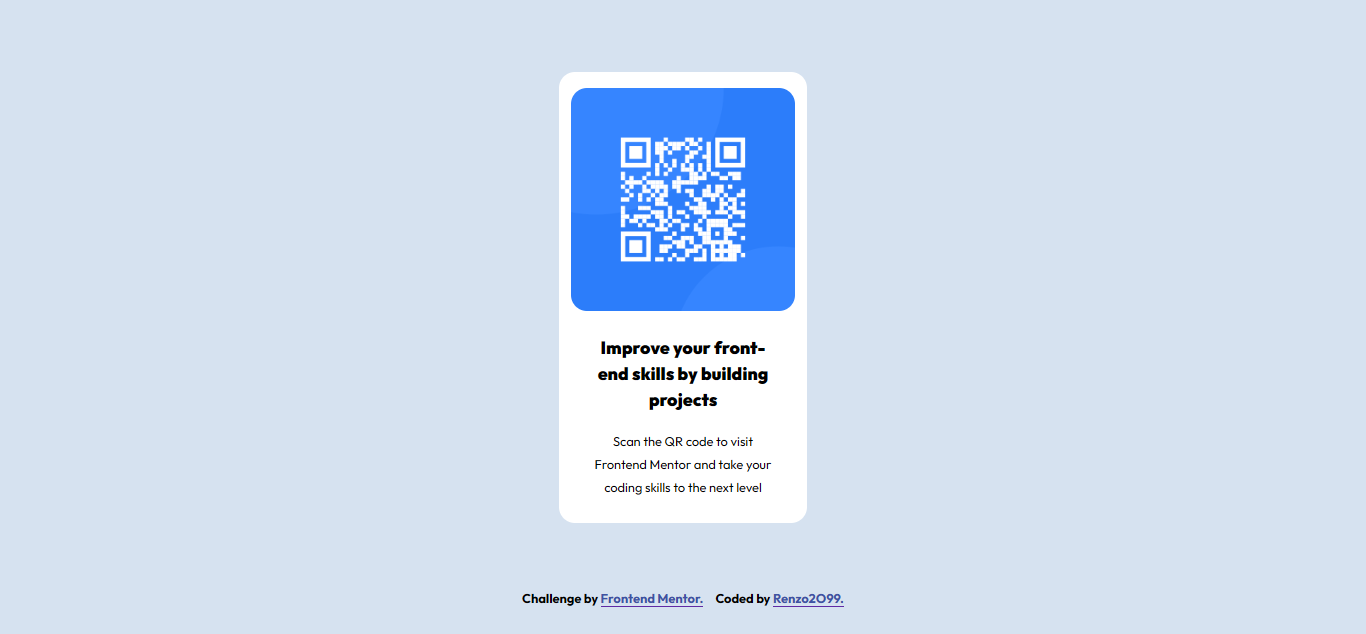
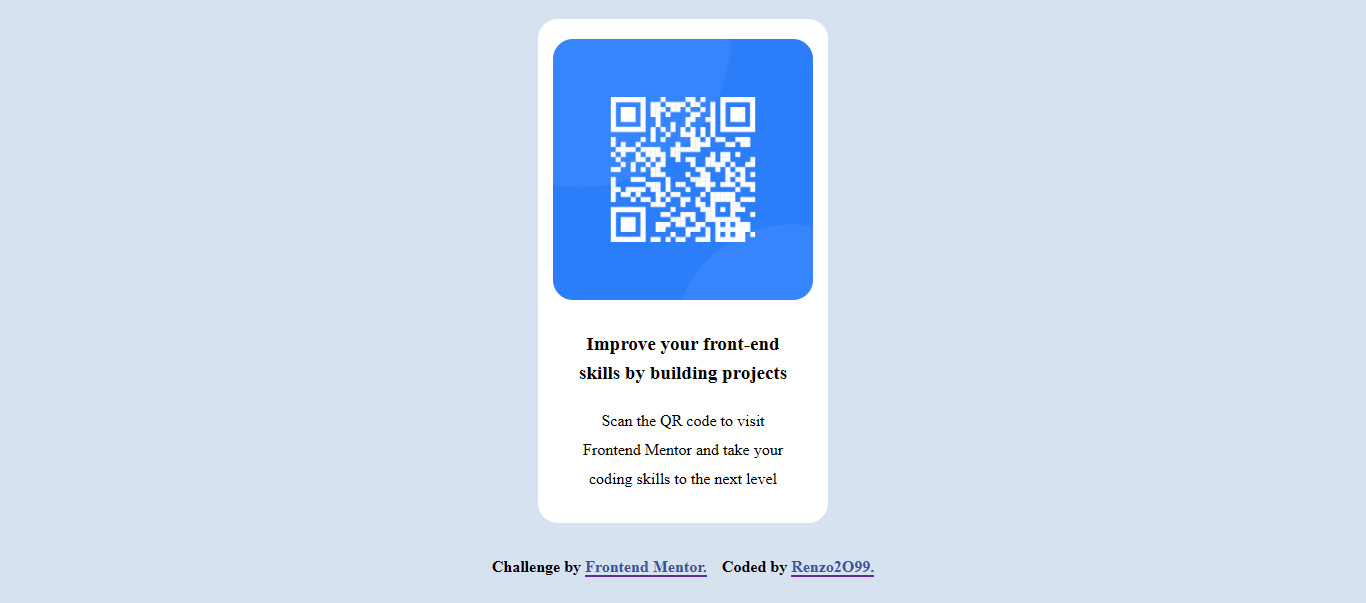
Primera Versión del Componente QR

Changed region(s): [[0.369, 0.0299, 0.6149, 0.8657], [0.369, 0.9254, 0.6457, 0.9851]]

diff --git a/css/style.css b/css/style.css
@@ -86,7 +86,7 @@ img {
 
 .contenedor-texto h2 {
     line-height: 1.5;
-    font-size: 2rem;
+    font-size: 1.9rem;
 }
 
 .footer {
